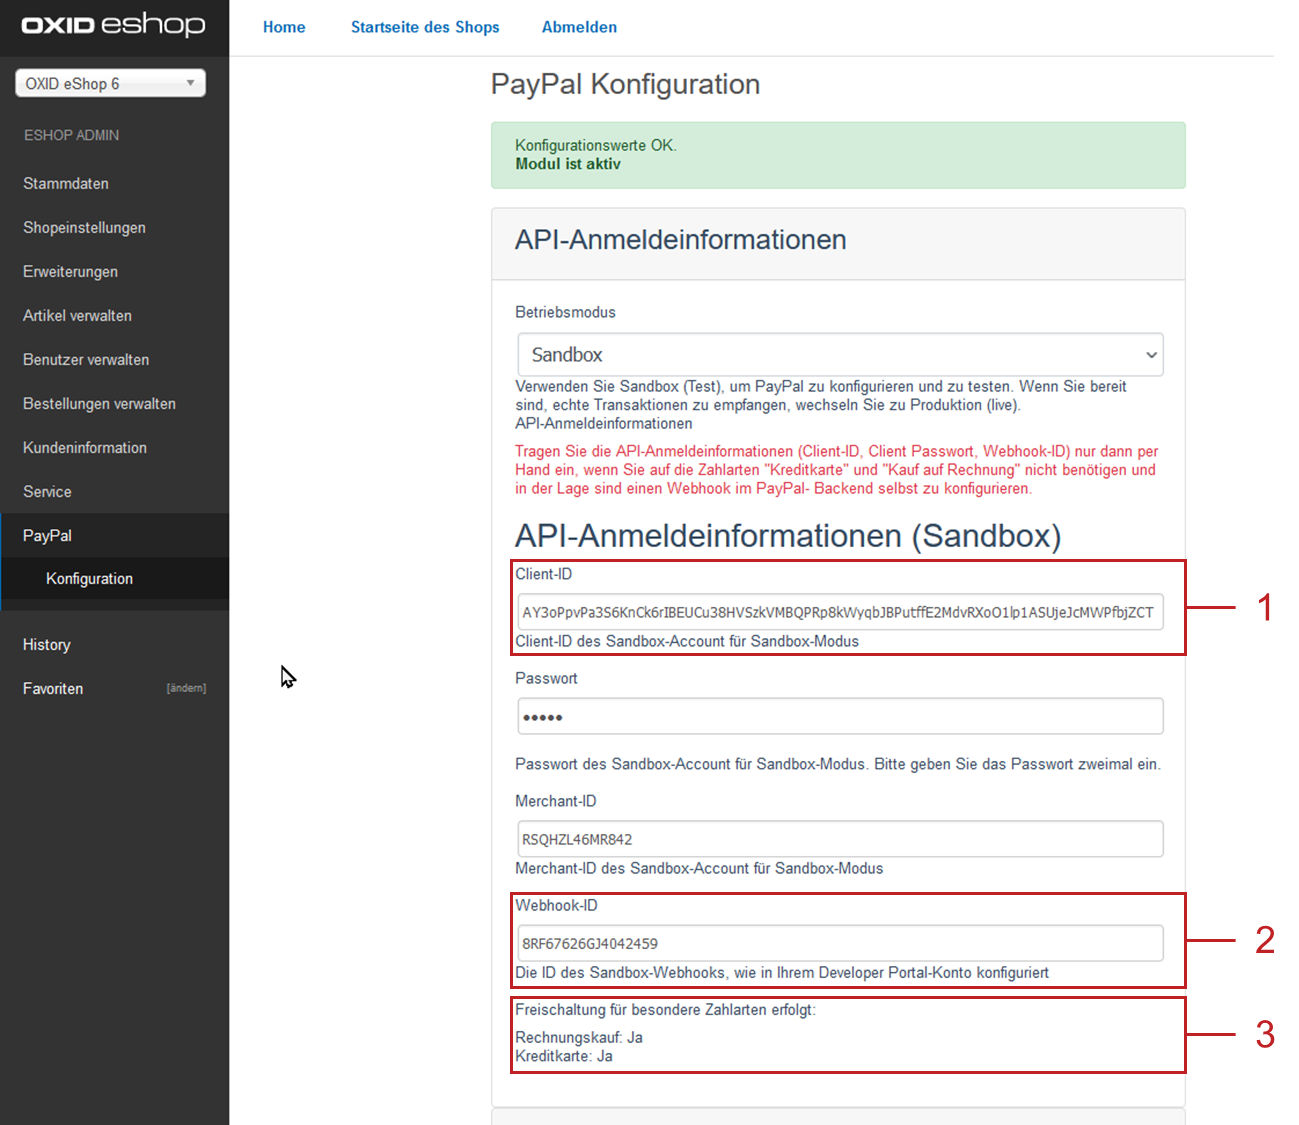
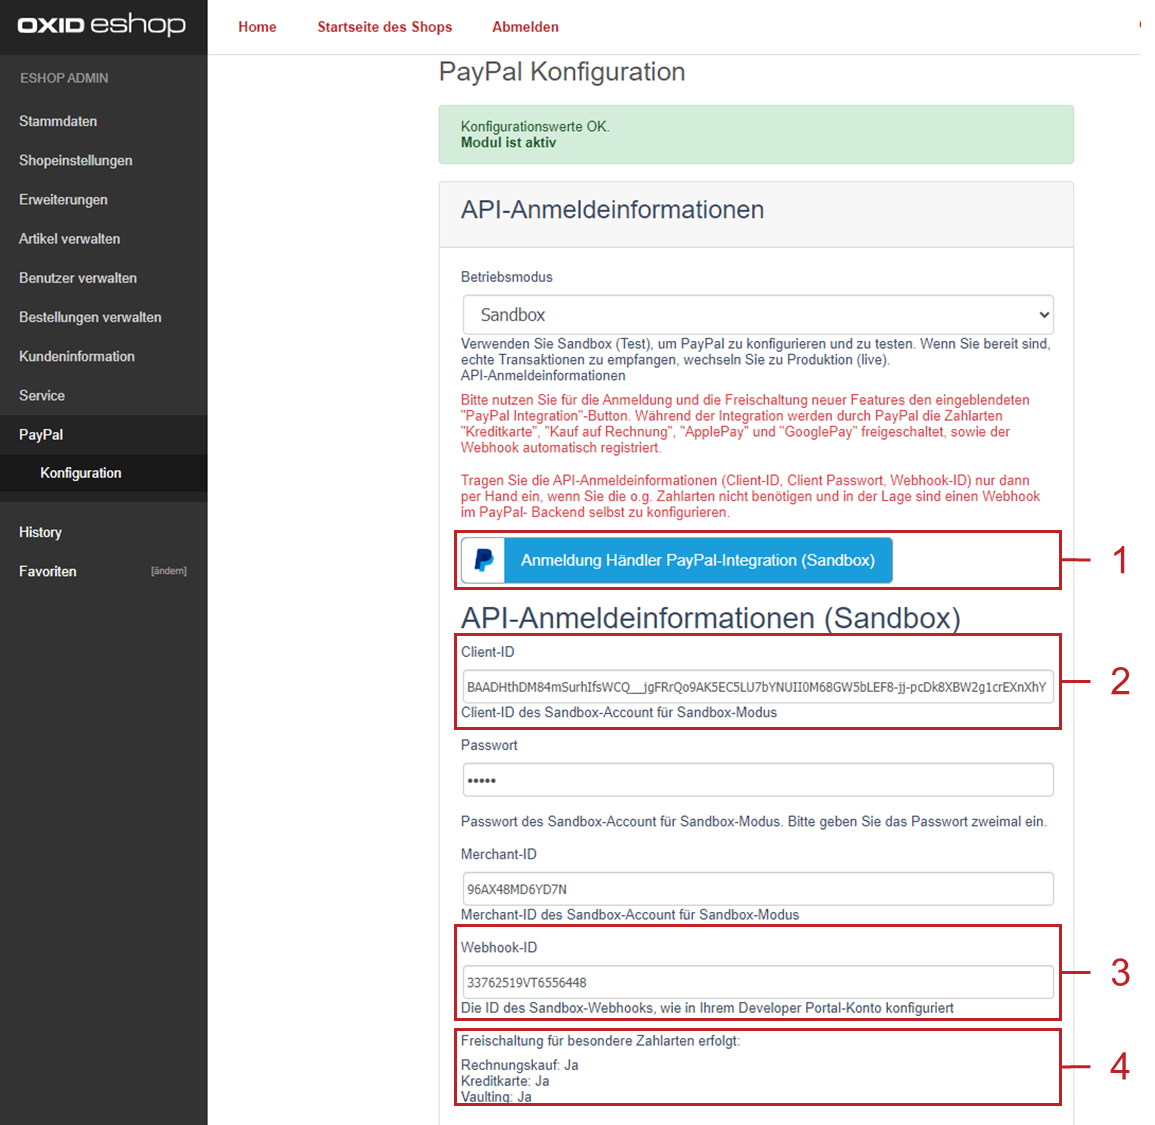
x.4: Feedback ML  -- DE

diff --git a/konfiguration.rst b/konfiguration.rst
@@ -151,9 +151,11 @@ Stellen Sie sicher, dass :productname:`PayPal Checkout` in jedem Subshop aktivie
 
 |result|
 
-Unter :menuselection:`Shopeinstellungen --> Zahlungsarten` sind die Zahlungsarten :guilabel:`PayPal` sowie wichtige weitere Zahlungsarten als aktiv gekennzeichnet.
+* Unter :menuselection:`Shopeinstellungen --> Zahlungsarten` sind die Zahlungsarten :guilabel:`PayPal` sowie wichtige weitere Zahlungsarten als aktiv gekennzeichnet.
 
-Um eine bestimmte länderspezifische Zahlungsart tatsächlich nutzen zu können, müssen Sie unter :menuselection:`Stammdaten --> Länder` das betreffende Land als aktiv markiert haben.
+  Um eine bestimmte länderspezifische Zahlungsart tatsächlich nutzen zu können, müssen Sie unter :menuselection:`Stammdaten --> Länder` das betreffende Land als aktiv markiert haben.
+
+* Links in der Navigation erscheint der neue Menüpunkt :menuselection:`PayPal --> Konfiguration`.
 
 |example|
 
@@ -163,12 +165,15 @@ Um iDEAL anbieten zu können, müssen Sie sichergestellt haben, dass Sie unter :
 PayPal Checkout konfigurieren
 -----------------------------
 
-Um die Konfiguration zu starten, wählen Sie :menuselection:`PayPal --> Konfiguration`. 
+Starten Sie das Konfigurieren.
 
-.. note::
+|prerequisites|
 
-   Um das Modul konfigurieren zu können, muss dieses zunächst aktiviert werden.
-   Nach der Aktivierung erscheint links in der Navigation der neue Menüpunkt **PayPal**.
+Sie haben das Modul :productname:`PayPal Checkout` aktiviert.
+
+|procedure|
+
+Wählen Sie :menuselection:`PayPal --> Konfiguration`.
 
 
 API-Anmeldeinformationen
@@ -216,7 +221,7 @@ Erst wenn alles nach Ihren Vorstellungen funktioniert, nutzen Sie die Zugangsdat
 
 |procedure|
 
-Wir beschreiben den Prozess am Beispiel eines Sandbox-Kontos. Der Live-Prozess ist analog.
+Wir beschreiben den Registrierungs-Prozess (Onboarding) am Beispiel eines Sandbox-Kontos. Der Live-Prozess ist analog.
 
 .. include:: /_static/reuse/note-ee-onboarding.rst
 
@@ -231,7 +236,7 @@ Wir beschreiben den Prozess am Beispiel eines Sandbox-Kontos. Der Live-Prozess i
 
 .. todo: #tbd 2.3, 1.3 / EN: Screenshot für Schritt 1, sonst. Felder leer
 
-1. Wählen Sie unter :guilabel:`API-Anmeldeinformationen` die Schaltfläche :guilabel:`Anmeldung Händler PayPal-Integration (Sandbox)`.
+1. Wählen Sie unter :guilabel:`API-Anmeldeinformationen` die Schaltfläche :guilabel:`Anmeldung Händler PayPal-Integration (Sandbox)` ().
 #. Durchlaufen Sie den Registrierungs-Prozess mit der E-Mail-Adresse des Sandbox-Händlerkontos.
 
    a. Melden Sie sich an (:ref:`oxdajr01`), und bestätigen Sie die Abfragen.
@@ -267,7 +272,7 @@ Wir beschreiben den Prozess am Beispiel eines Sandbox-Kontos. Der Live-Prozess i
 
    Der Webhook ist erzeugt.
 
-   Die Client-ID und die Webhook-ID werden angezeigt (:ref:`oxdajr05`, Pos. 1, 2).
+   Die Client-ID und die Webhook-ID werden angezeigt (:ref:`oxdajr05`, Pos. 2, 3).
 
    .. todo: #tbd: Bild neu en;
 
@@ -282,7 +287,7 @@ Wir beschreiben den Prozess am Beispiel eines Sandbox-Kontos. Der Live-Prozess i
 
    .. _freischaltung-kreditkarte:
 
-#. Wenn Sie Ihren Kunden die Zahlungsmethoden Rechnungskauf oder Kreditkarte anbieten wollen, prüfen Sie unter :guilabel:`Freischaltung für besondere Zahlarten erfolgt` (:ref:`oxdajr05`, Pos. 3), ob die Freischaltung erfolgt ist.
+#. Wenn Sie Ihren Kunden die Zahlungsmethoden Rechnungskauf oder Kreditkarte anbieten wollen, prüfen Sie unter :guilabel:`Freischaltung für besondere Zahlarten erfolgt` (:ref:`oxdajr05`, Pos. 4), ob die Freischaltung erfolgt ist.
 
    .. hint::
 
@@ -313,7 +318,7 @@ Wir beschreiben den Prozess am Beispiel eines Sandbox-Kontos. Der Live-Prozess i
 
 |result|
 
-Sobald Sie PayPal die Genehmigung erteilt haben, Ihr Sandbox-Konto mit dem PayPal-Test Store zu verbinden, werden die API-Anmeldeinformationen angezeigt, und das Modul ist aktiv :ref:`oxdajr05`.
+Sobald Sie PayPal die Genehmigung erteilt haben, Ihr Sandbox-Konto mit dem PayPal-Test Store zu verbinden, werden die API-Anmeldeinformationen angezeigt, und das Modul ist aktiv.
 
 Unter :menuselection:`Shopeinstellungen --> Zahlungsarten` ist die Zahlungsart :guilabel:`PayPal` (technischer Name :technicalname:`oscpaypal`) aktiv (:ref:`oxdajr07`).
 
@@ -699,6 +704,57 @@ Wenn Sie die Vorteile des Werbens für die PayPal-Ratenzahlung nutzen wollen, le
 #. Legen Sie unter :guilabel:`Farbe des Ratenzahlung-Banners auswählen` die gewünschte Farbe des Banners fest.
 #. Speichern Sie Ihre Einstellungen.
 
+.. todo: #ML: Was hat es mit "regionale Spracheinstellungen" auf sich?
+    Voreingestellt ist "de_DE,en_US".
+    Was bedeutet: PayPal unterstützt die Anzeige der PayPal-Buttons in regionalen Sprachen.
+    Bitte hinterlegen sie die Codes kommasepariert im ISO 639-1 alpha-2 / ISO 3166-1 alpha-2 - Format (z.B. de_DE).
+    Der erste Eintrag ist der Standard-Eintrag.
+
+
+PayPal Vaulting deaktivieren
+^^^^^^^^^^^^^^^^^^^^^^^^^^^^
+
+PayPal Vaulting ist standardmäßig aktiviert.
+
+PayPal Vaulting erstellt dazu automatisch eine PayPal-Abrechnungsvereinbarung. Dadurch können Sie das Konto in Zukunft belasten, ohne dass Ihre Kunden sich erneut bei PayPal authentifizieren oder eine Zahlungsmethode aus ihrem Wallet auswählen müssen.
+
+Ihre Kunden können damit ihre Zahlungsinformationen für zukünftige Käufe speichern (:ref:`oxdajr15`, Pos. 1). Das beschleunigt bei Stammkunden die Kaufabwicklung und erhöht die Benutzerfreundlichkeit Ihres OXID eShops.
+
+Dennoch können Sie die Funktion bei Bedarf deaktivieren.
+
+.. todo: #M: Shop nur auf EN erreichbar? -- ist die folgende Einstellung ((:ref:`oxdajr15`, Pos. 1)) gemeint?
+.. todo: #ML: Was bedeutet das Folgende?
+    Ob man qualifiziert für Vaulting ist, sieht man an der Stelle, wo bisher auch immer stand, ob man für ACDC oder PUI freigeschaltet wurde
+    evtl. Onboarding nochmal versuchen, evtl. Feature nicht da, nix mit Bonität
+    Im Frontend gibt es im Kundenkonto zwei Möglichkeiten, Kreditkarten bzw. PayPal-Konten zu hinterlegen bzw. auch wieder zu löschen
+    Im Checkout können während des Bezahlens ebenfalls Kreditkarten bzw. PayPal-Konten hinterlegt werden
+    Hinterlegte Kreditkarten bzw. PayPal-Konten können anschließend für neue Bestellungen genutzt werden
+
+.. _oxdajr15:
+
+.. figure:: /media/screenshots/oxdajr15.png
+   :alt: Zahlungsinformationen speichern
+   :width: 650
+   :class: with-shadow
+
+   Abb.: Zahlungsinformationen speichern
+
+|procedure|
+
+1. Um PayPal Vaulting zu deaktivieren, deaktivieren Sie das Kontrollkästchen :guilabel:`PayPal Vaulting aktivieren` (:ref:`oxdajr14`, Pos. 1).
+#. Speichern Sie Ihre Einstellungen.
+
+
+.. _oxdajr14:
+
+.. figure:: /media/screenshots/oxdajr14.png
+   :alt: PayPal Vaulting aktivieren
+   :width: 650
+   :class: with-shadow
+
+   Abb.: PayPal Vaulting aktivieren
+
+
 Optional: Länderzuordnung von PayPal Checkout-Zahlungsmethoden konfigurieren
 ----------------------------------------------------------------------------
 
@@ -723,37 +779,6 @@ Beispiel: Nur Kunden mit einer Rechnungsadresse in Polen erhalten die Zahlungsme
 Um bei Bedarf die Zugänglichkeit einer :productname:`PayPal Checkout`-Zahlungsmethode auf bestimmte Länder einzuschränken, wählen Sie :menuselection:`Shopeinstellungen --> Zahlungsarten --> <Zahlungsart> --> Länder --> Länder zuordnen`.
 
 
-PayPal Vaulting aktivieren
-^^^^^^^^^^^^^^^^^^^^^^^^^^
-
-.. todo: #ML: In welchem Fall würde ich es nicht aktivieren?
-
-.. todo: #ML: Was muss ich tun?:
-    * Unterstützung für "Pay Later"-Angebote: Ermöglicht es Kunden, "Pay Later"-Angebote zu nutzen und erfordert die Darstellung des "Pay Later"-Buttons zusätzlich zum PayPal-Button.
-
-    Wiederholungskäufe leicht gemacht: Speichern Sie die bevorzugten Zahlarten Ihrer Kunden.
-
-   Ermöglichen Sie so eine schnelle und einfache Kaufabwicklung ermöglichen.
-
-   Mit ihren gespeicherten Zahlungsdaten können Kunden mit nur wenigen Klicks Wiederholungskäufe tätigen.
-
-   Dies kann für Sie eine höhere Checkout-Conversion bedeuten.
-
-|procedure|
-
-1. Um PayPal Vaulting zu aktivieren, markieren Sie das Kontrollkästchen :guilabel:`PayPal Vaulting aktivieren` (:ref:`oxdajr14`).
-#. Speichern Sie Ihre Einstellungen.
-
-.. _oxdajr14:
-
-.. figure:: /media/screenshots/oxdajr14.png
-   :alt: PayPal Vaulting aktivieren
-
-   Abb.: PayPal Vaulting aktivieren
-
-|result|
-
-.. todo: #ML: Wie sieht das genau aus: "mit nur wenigen Klicks Wiederholungskäufe tätigen"
 
 PayPal Checkout testen
 ----------------------

diff --git a/releases/paypal-checkout-340.rst b/releases/paypal-checkout-340.rst
@@ -13,11 +13,13 @@ Mit :productname:`PayPal Checkout` 3.4 für :productname:`OXID eShop` Version 7 
 PayPal Vaulting
 ^^^^^^^^^^^^^^^
 
-.. todo: #ML: prüfen/verifizieren
+.. todo: #ML: prüfen/verifizieren: siehe https://developer.paypal.com/braintree/docs/guides/paypal/checkout-with-vault/javascript/v3/
 
-Ermöglichen Sie mit PayPal Vaulting wiederkehrenden Kunden einen schnelleren und nahtloseren Checkout-Prozess und erhöhen Sie Ihre Konversionsrate.
+Ermöglichen Sie mit PayPal Vaulting wiederkehrenden Kunden einen nahtlosen Checkout-Prozess und erhöhen Sie so Ihre Konversionsrate.
 
-Speichern Sie dazu die PayPal-Zahlungsinformationen sicher im Braintree-Tresor, um sie für zukünftige Transaktionen wiederzuverwenden.
+**Hintergrund**
+
+PayPal Vaulting bedeutet: Ihre Kunden speichern ihre Zahlungsinformationen sicher im Braintree-Tresor, um sie für zukünftige Transaktionen wiederzuverwenden.
 
 PayPal Vaulting erstellt dazu automatisch eine PayPal-Abrechnungsvereinbarung. Dadurch können Sie das Konto in Zukunft belasten, ohne dass der Kunde sich erneut bei PayPal authentifizieren oder eine Zahlungsmethode aus seinem Wallet auswählen muss.
 
@@ -27,7 +29,29 @@ Hauptvorteile und Nutzungsmöglichkeiten:
 * Vielseitigkeit: Unterstützt die Auswahl oder Hinzufügung von Versandadressen und Finanzierungsinstrumenten im PayPal-Konto, sowie Zwei-Faktor-Authentifizierung in mehreren Ländern.
 * Verbesserte Kundenerfahrung bei Rückkehr: Kunden, die ihr PayPal Wallet im Tresor gespeichert haben, können bei zukünftigen Käufen schneller bezahlen und, falls gewünscht, ihre Zahlungsmethode ändern.
 
-Weitere Informationen finden Sie unter :ref:`konfiguration:PayPal Vaulting aktivieren`.
+PayPal Vaulting nachträglich aktivieren
+^^^^^^^^^^^^^^^^^^^^^^^^^^^^^^^^^^^^^^^
+
+Wenn Sie :productname:`PayPal Checkout` bereits nutzen, tun Sie folgendes, um PayPal Vaulting nachträglich zu aktivieren.
+
+|procedure|
+
+1. Machen Sie ein Update auf :productname:`PayPal Checkout` 3.4.0.
+
+   Weitere Informationen finden Sie unter :ref:`installation:Minor Update installieren`.
+
+#. Durchlaufen Sie den Registrierungs-Prozess (Onboarding) erneut.
+
+   Wenn technisch alles in Ordnung ist, wird unter :guilabel:`Freischaltung für besondere Zahlarten erfolgt` angezeigt, dass PayPal Vaulting verfügbar ist (:ref:`oxdajr05`, Pos. 4)
+
+   Weitere Informationen finden Sie unter :ref:`konfiguration:API-Anmeldeinformationen`.
+
+|result|
+
+PayPal Vaulting ist standardmäßig aktiviert (:ref:`oxdajr14`, Pos. 1).
+
+Sie können es bei Bedarf deaktivieren. Weitere Informationen finden Sie unter :ref:`konfiguration:PayPal Vaulting deaktivieren`.
+
 
 Geänderte Zahlungsarten
 ^^^^^^^^^^^^^^^^^^^^^^^

diff --git a/installation.rst b/installation.rst
@@ -78,22 +78,26 @@ Sobald der Installationsprozess abgeschlossen ist, erscheint das Modul :guilabel
 
    Abb.: PayPal Checkout für OXID erfolgreich installiert
 
+Minor Update installieren
+-------------------------
+
+.. todo: #ML: so korrekt, wenn ich 3.4.0 mit Vaulting haben will?
+
+Installieren Sie bei Bedarf ein Minor Update, beispielsweise von :productname:`PayPal Checkout` Version 3.3.0 auf Version 3.4.0.
+
+   .. code:: bash
+      composer require oxid-solution-catalysts/paypal-module ^3.4.0
+      composer update
 
 .. todo: Folgende Varianten später reaktivieren
-    Minor Update installieren
-    -------------------------
-    Installieren Sie bei Bedarf ein  Minor Update, beispielsweise von :productname:`PayPal Checkout` Version 2.2.1 auf Version 2.3.0.
-       .. code:: bash
-          composer require oxid-solution-catalysts/paypal-module ^2.3.0
-          composer update
-    Patch-Update installieren
-    -------------------------
-    Installieren Sie bei Bedarf ein Patch-Update, beispielsweise von :productname:`PayPal Checkout` Version 2.3.0 auf Version 2.3.1.
-    |procedure|
-    1. Führen Sie folgenden Befehl aus:
-       .. code:: bash
-          composer update
-    #. Bestätigen Sie die Abfrage, ob die :file:`oxid-solution-catalysts/paypal-module`-Dateien überschrieben werden sollen.
+Patch-Update installieren
+-------------------------
+Installieren Sie bei Bedarf ein Patch-Update, beispielsweise von :productname:`PayPal Checkout` Version 2.3.0 auf Version 2.3.1.
+|procedure|
+1. Führen Sie folgenden Befehl aus:
+   .. code:: bash
+      composer update
+#. Bestätigen Sie die Abfrage, ob die :file:`oxid-solution-catalysts/paypal-module`-Dateien überschrieben werden sollen.
 
 
 

diff --git a/paypal-sandbox.rst b/paypal-sandbox.rst
@@ -26,15 +26,16 @@ Zeigen Sie die Zugangsdaten für Ihre Sandbox-Test-Konten im PayPal-Entwickler-P
 
 |procedure|
 
+.. todo: #tbd EN: prozess neu
+
 1. Rufen Sie das PayPal-Entwickler-Portal unter `developer.paypal.com <https://developer.paypal.com/home>`_ auf.
-#. Wählen Sie :guilabel:`Log Into Dashboard`.
 #. Melden Sie sich mit den Zugangsdaten Ihres echten PayPal-Kontos an
    |br|
    Ihr PayPal-Konto kann ein Händler- oder Kunden-Konto sein. Nur für das Freischalten des Live-Betriebs werden Sie ein Händlerkonto brauchen.
-#. Wählen Sie :menuselection:`Sandbox --> Accounts`.
+#. Wählen Sie :menuselection:`Go to Dashboars --> Developer Dashboard`.
+#. Wählen Sie :guilabel:`Sandbox accounts`.
 
 |result|
-
 
 Zwei Sandbox-Test-Konten werden angezeigt, ein Business-Sandbox-Konto (Händler-Konto) und ein Personal-Sandbox-Konto (Kunden-Konto) (:ref:`oxdaju01`).
 
